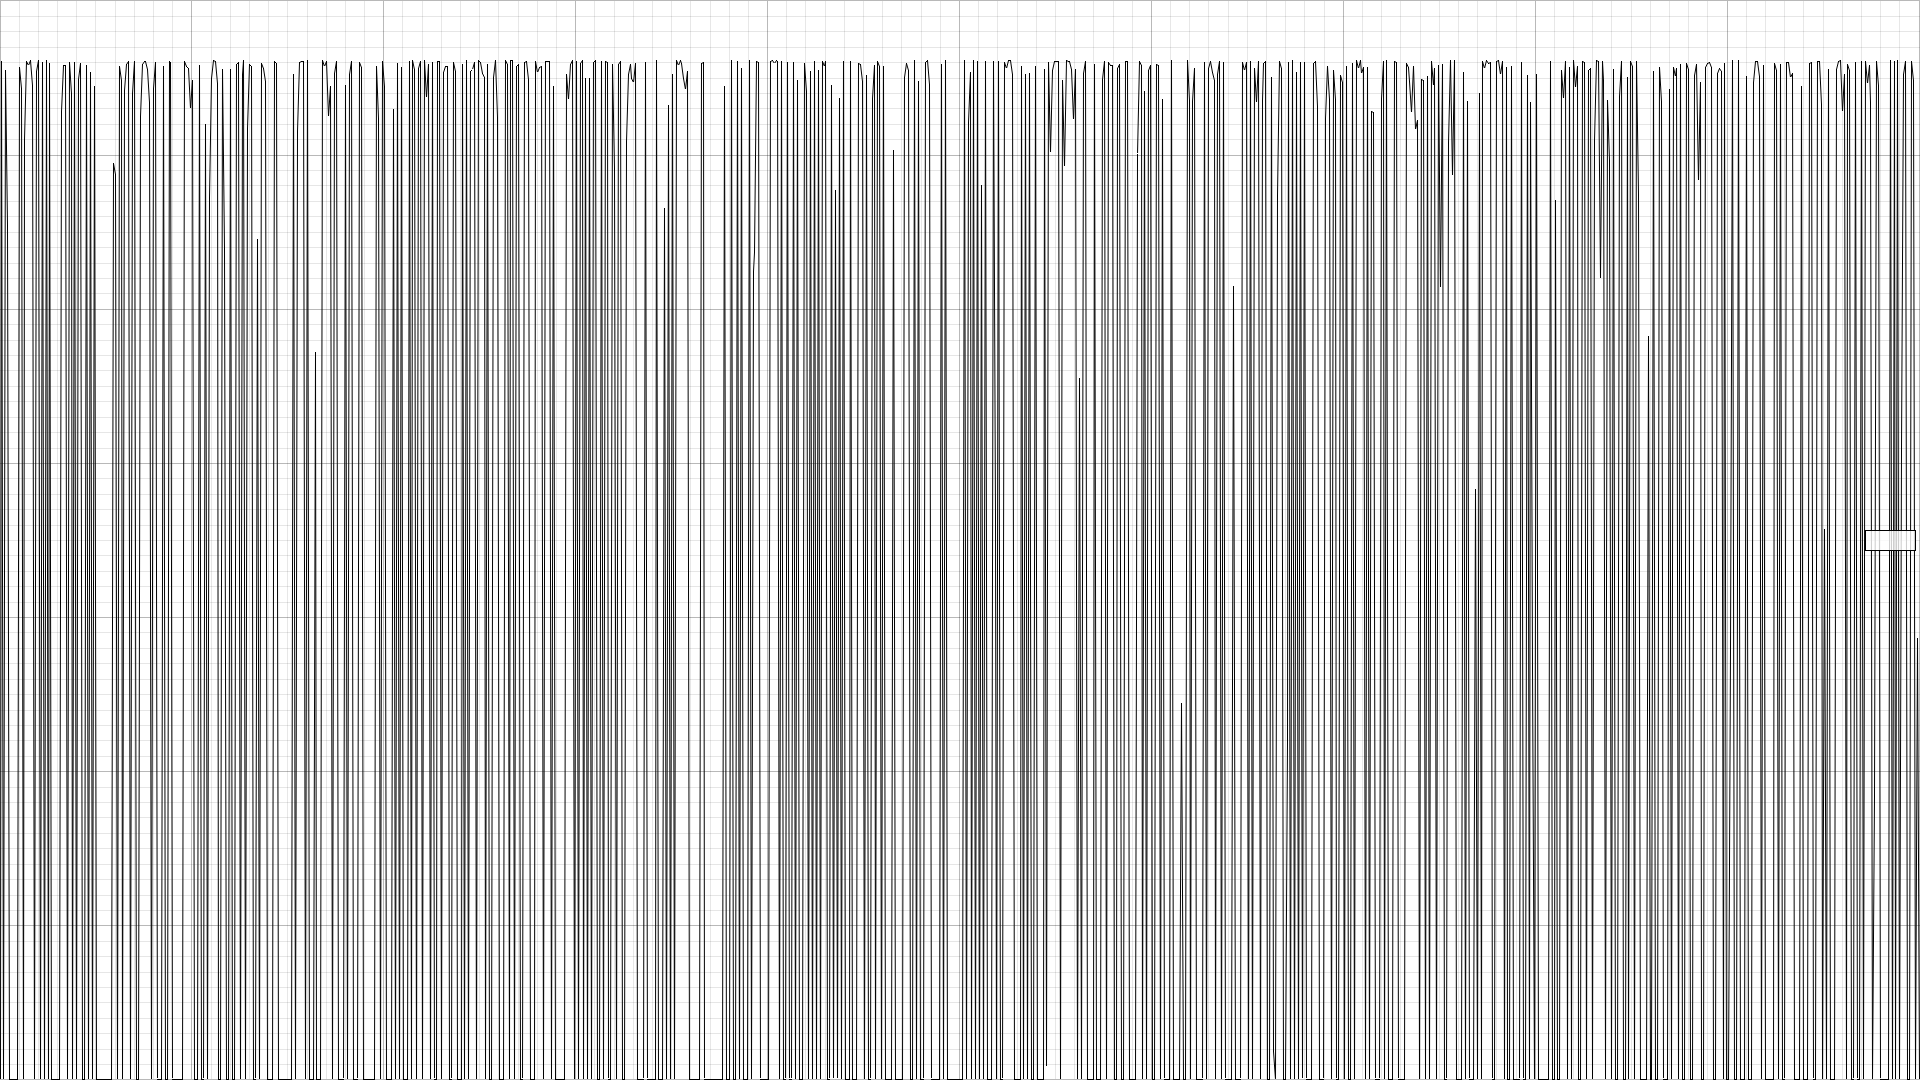
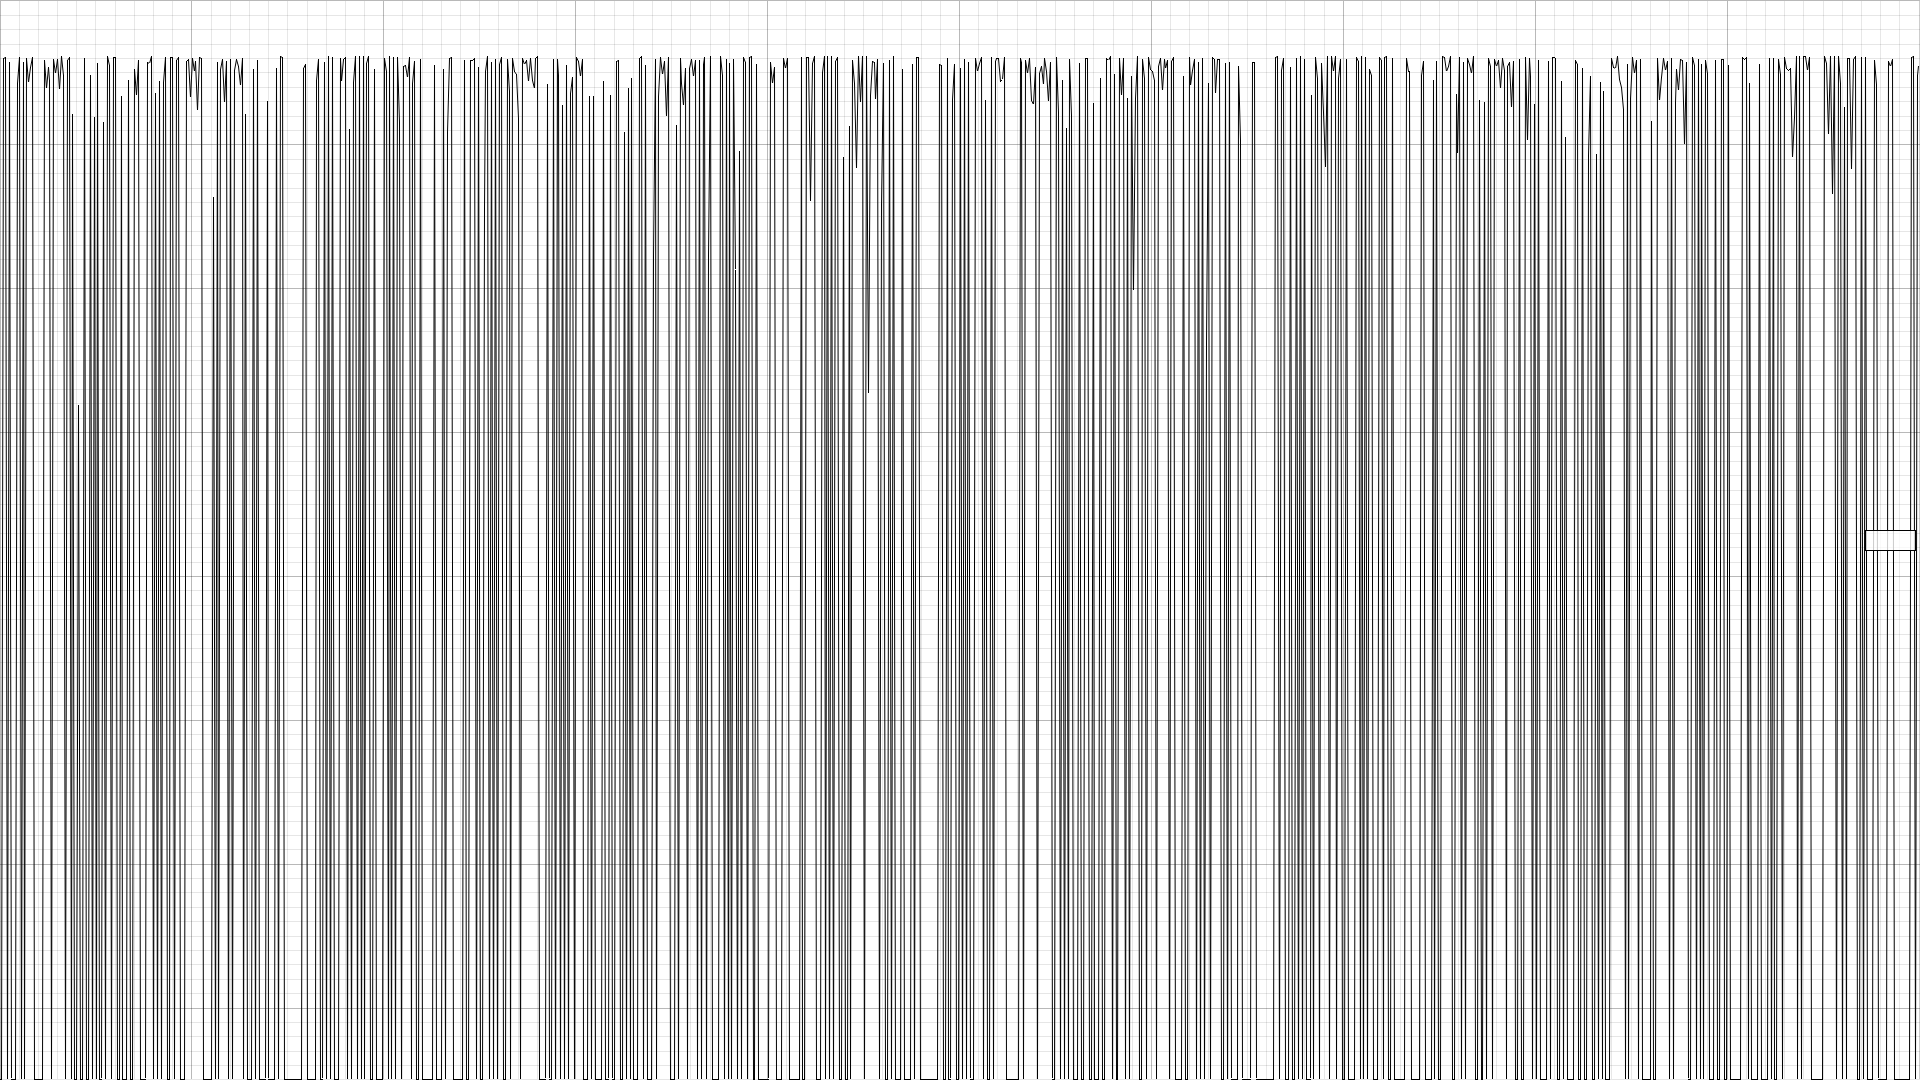
slight modifications to equations.

diff --git a/src/main.rs b/src/main.rs
@@ -4,7 +4,7 @@ use iter_num_tools::lin_space;
 
 fn main() -> Result<(), Box<dyn std::error::Error>> {
 
-    let t_initial = lin_space(0.0..=10.0, 1000);
+    let t_initial = lin_space(0.0..=1.0, 1000);
     let latitude = 39.2;
     
     let mut angle: Vec<f64> = Vec::new();
@@ -21,7 +21,7 @@ fn main() -> Result<(), Box<dyn std::error::Error>> {
     (1920, 1080)).into_drawing_area();
     root.fill(&WHITE)?;
     let mut chart = ChartBuilder::on(&root)
-        .build_cartesian_2d(0f64..10f64, 0f64..1400f64)?;
+        .build_cartesian_2d(0f64..1f64, -100f64..1400f64)?;
 
     chart.configure_mesh().draw()?;
 
@@ -72,13 +72,12 @@ const CF:f64 = 180.0/PI; //conversion factor between radians and degrees.
 
 let sun_angle:f64 = 360.0*(t_initial % 24.0);
 
-let horiz_angle:f64 = 23.5*((360_f64*(t_initial/365.25)).sin()*CF);
+let horiz_angle:f64 = 23.5*(360_f64*((t_initial/365.25).sin()*CF));
 
 let η:f64 = 90.0 - ((
-    latitude.cos()*(horiz_angle.cos()*(sun_angle.cos())) + 
-    ((horiz_angle.sin())*(latitude.sin()))
-).acos()
-)*CF;
+    (latitude.cos()*horiz_angle.cos()*sun_angle.cos()) + 
+    (horiz_angle.sin()*latitude.sin())
+).acos())*CF;
 
 η
 }
